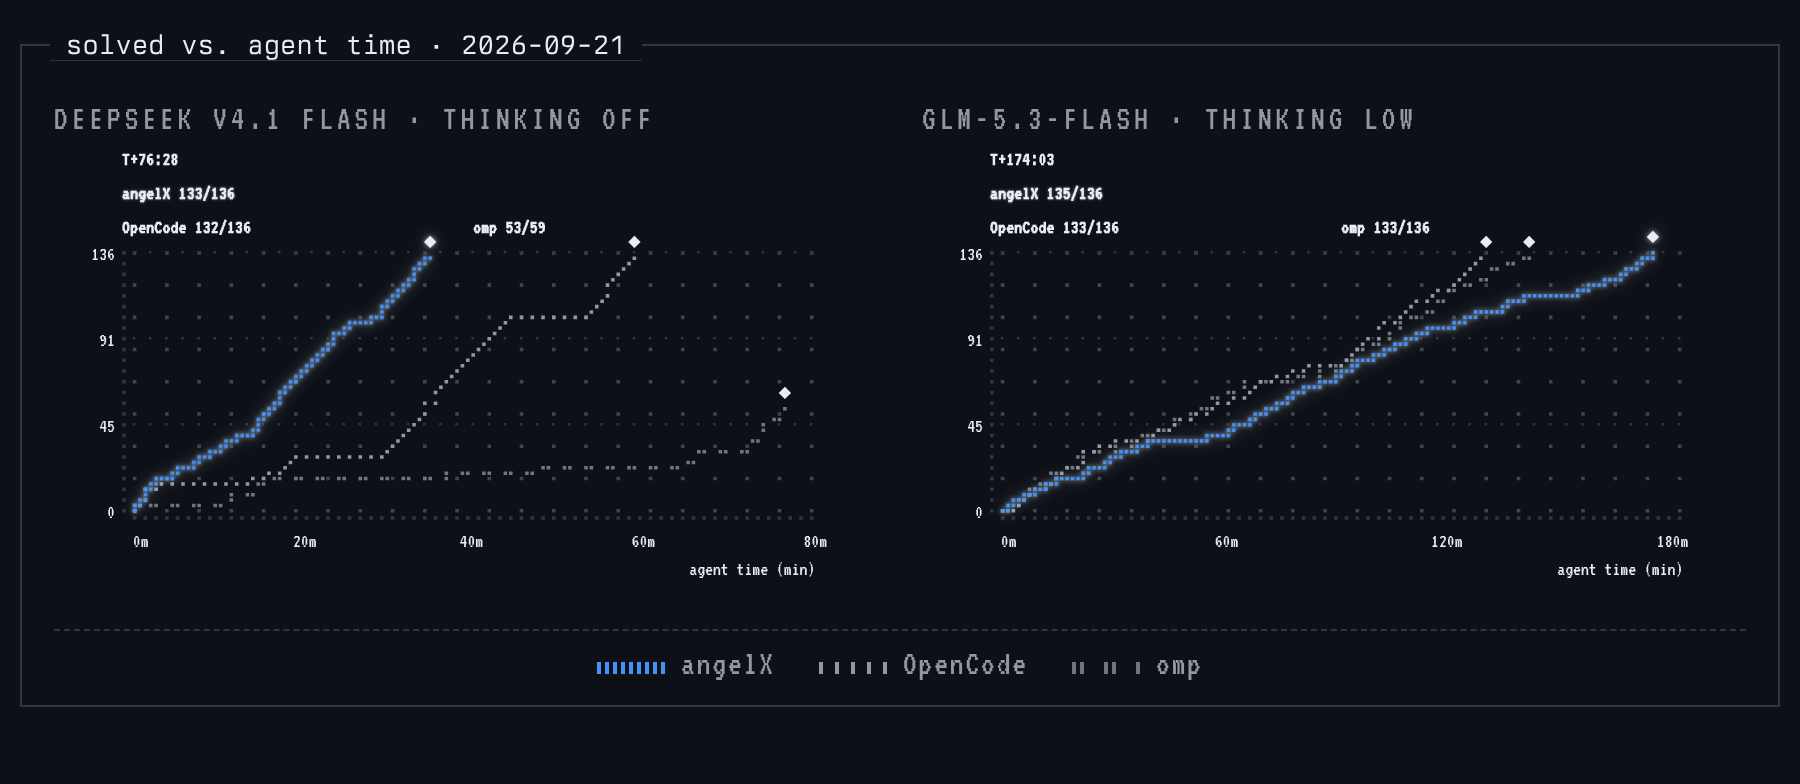
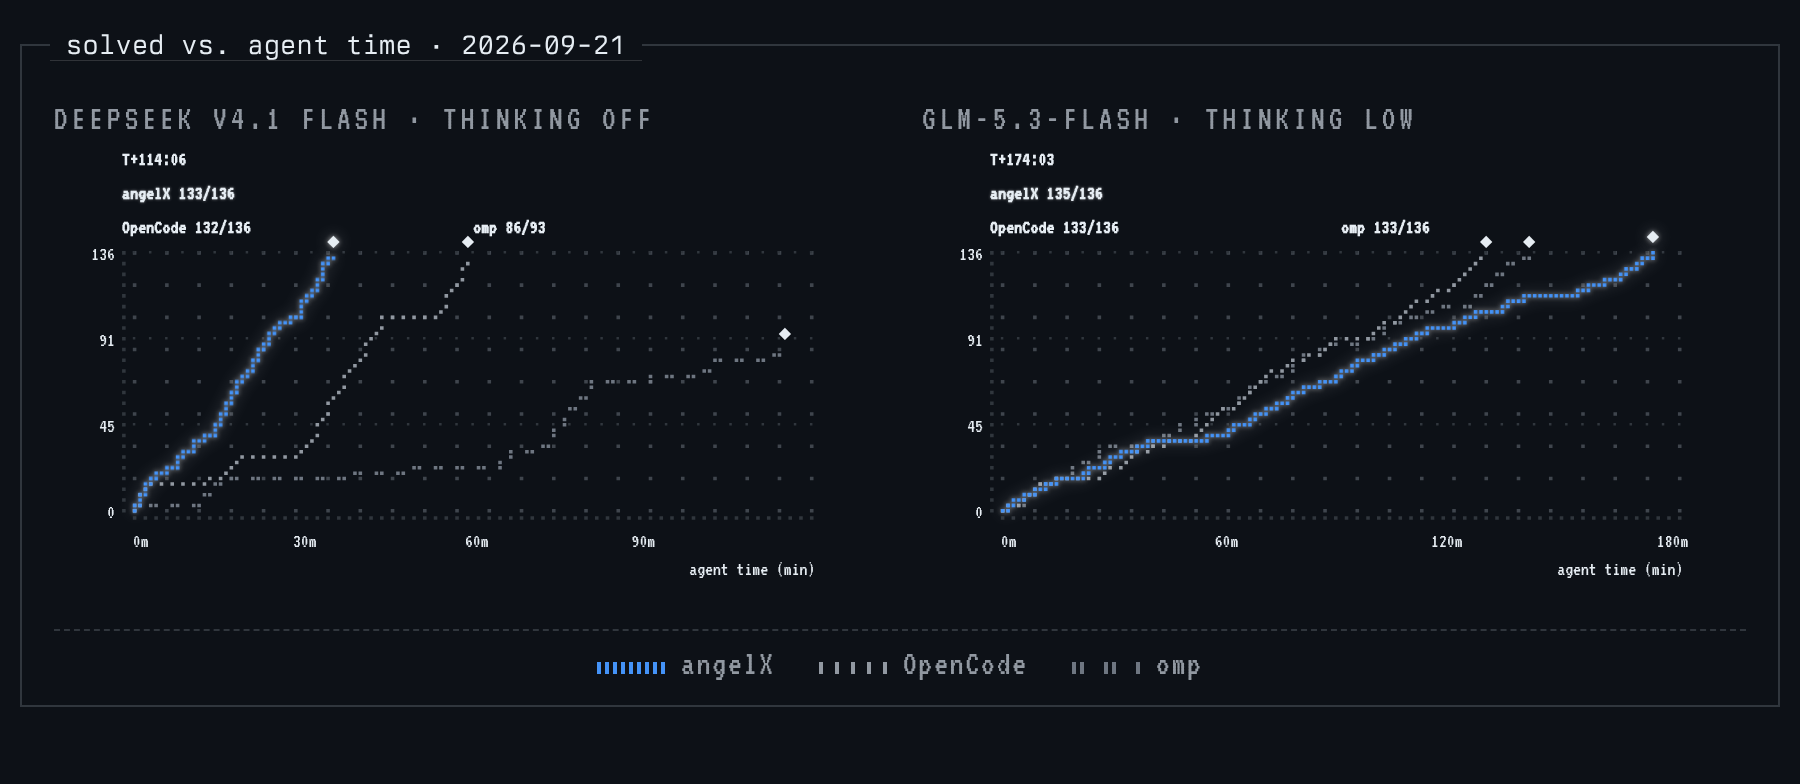
docs(benchmark): charts from final results; shorter footnote

diff --git a/scripts/build_polyglot_bench_data.py b/scripts/build_polyglot_bench_data.py
@@ -59,7 +59,9 @@ def main() -> None:
             rs = [r for r in rows if r["model"] == model and r["harness"] == harness]
             if not rs:
                 continue
-            rs.sort(key=lambda r: (r.get("run", ""), r.get("task_index", 0)))
+            # Keep export order within a run: it is execution order, and a
+            # resumed (pickup) segment restarts task_index at 0.
+            rs.sort(key=lambda r: r.get("run", ""))
             runs = sorted({r.get("run", "") for r in rs})
             attempts = [
                 {

diff --git a/README.md b/README.md
@@ -45,7 +45,7 @@ cd angelX
 | | OpenCode 1.18.31 | 133 / 136 | 38.9 s | 7.4 | 10.1 M | 85% | 179 k |
 | | oh-my-pi 18.2.4 | 133 / 136 | 37.7 s | 8.9 | 24.1 M | 90% | 203 k |
 
-* oh-my-pi on DeepSeek reached its 200M-token budget cap after 93 tasks (86 solved). The run was paused once for debugging and resumed. The other five cells ran all 136.
+* oh-my-pi on DeepSeek reached its 200M-token budget cap after 93 tasks.
 
 angelX runs a verification step before reporting a task done. That step accounts for its extra wall time on GLM; higher thinking levels add more.
 
